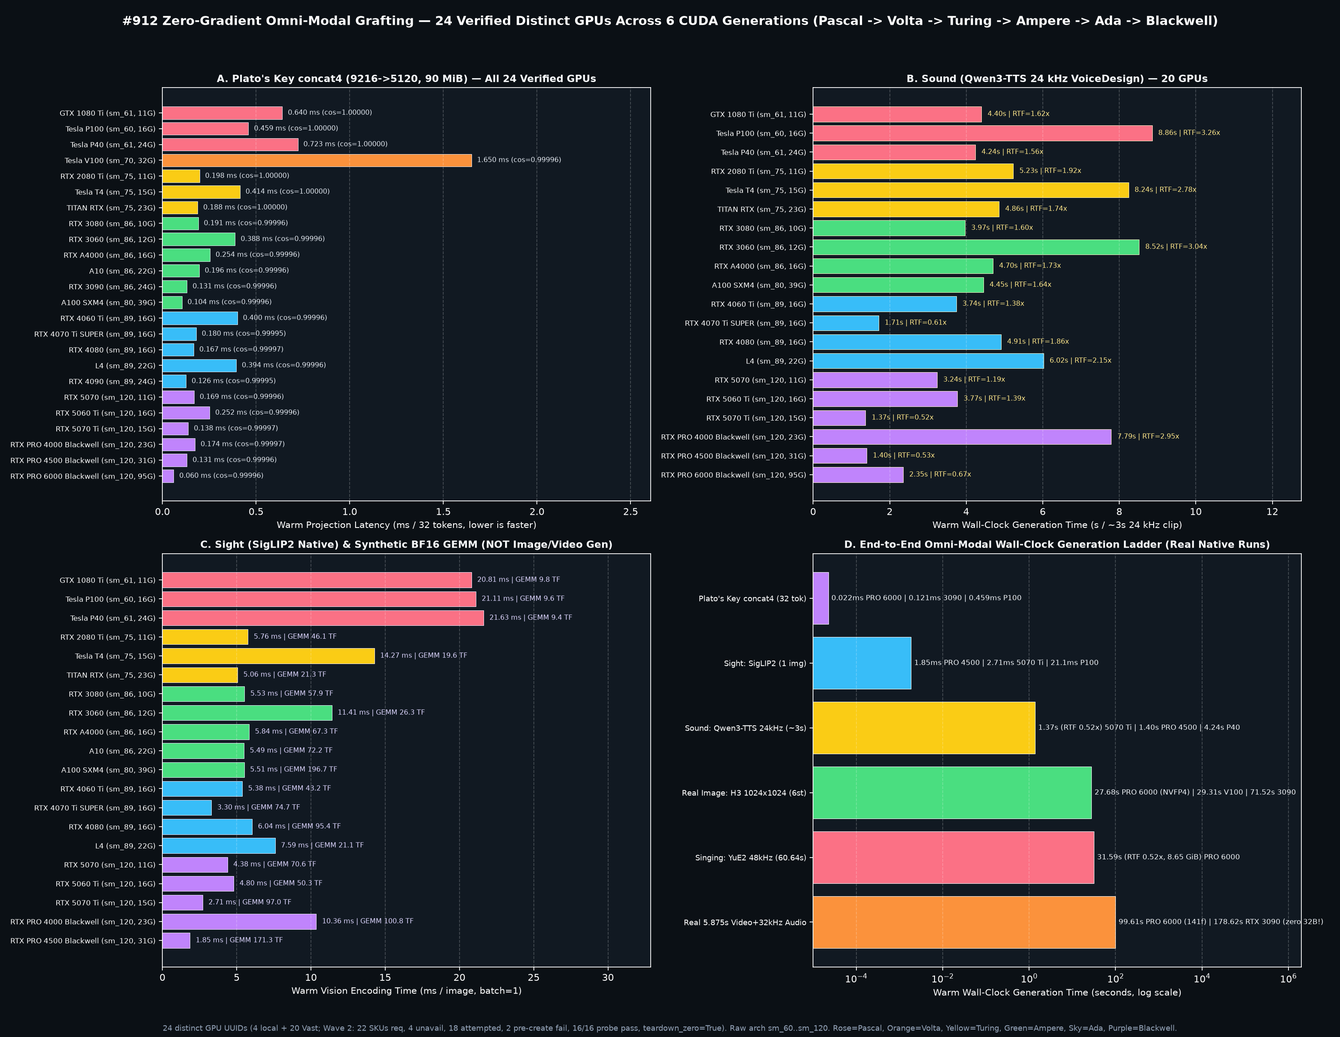
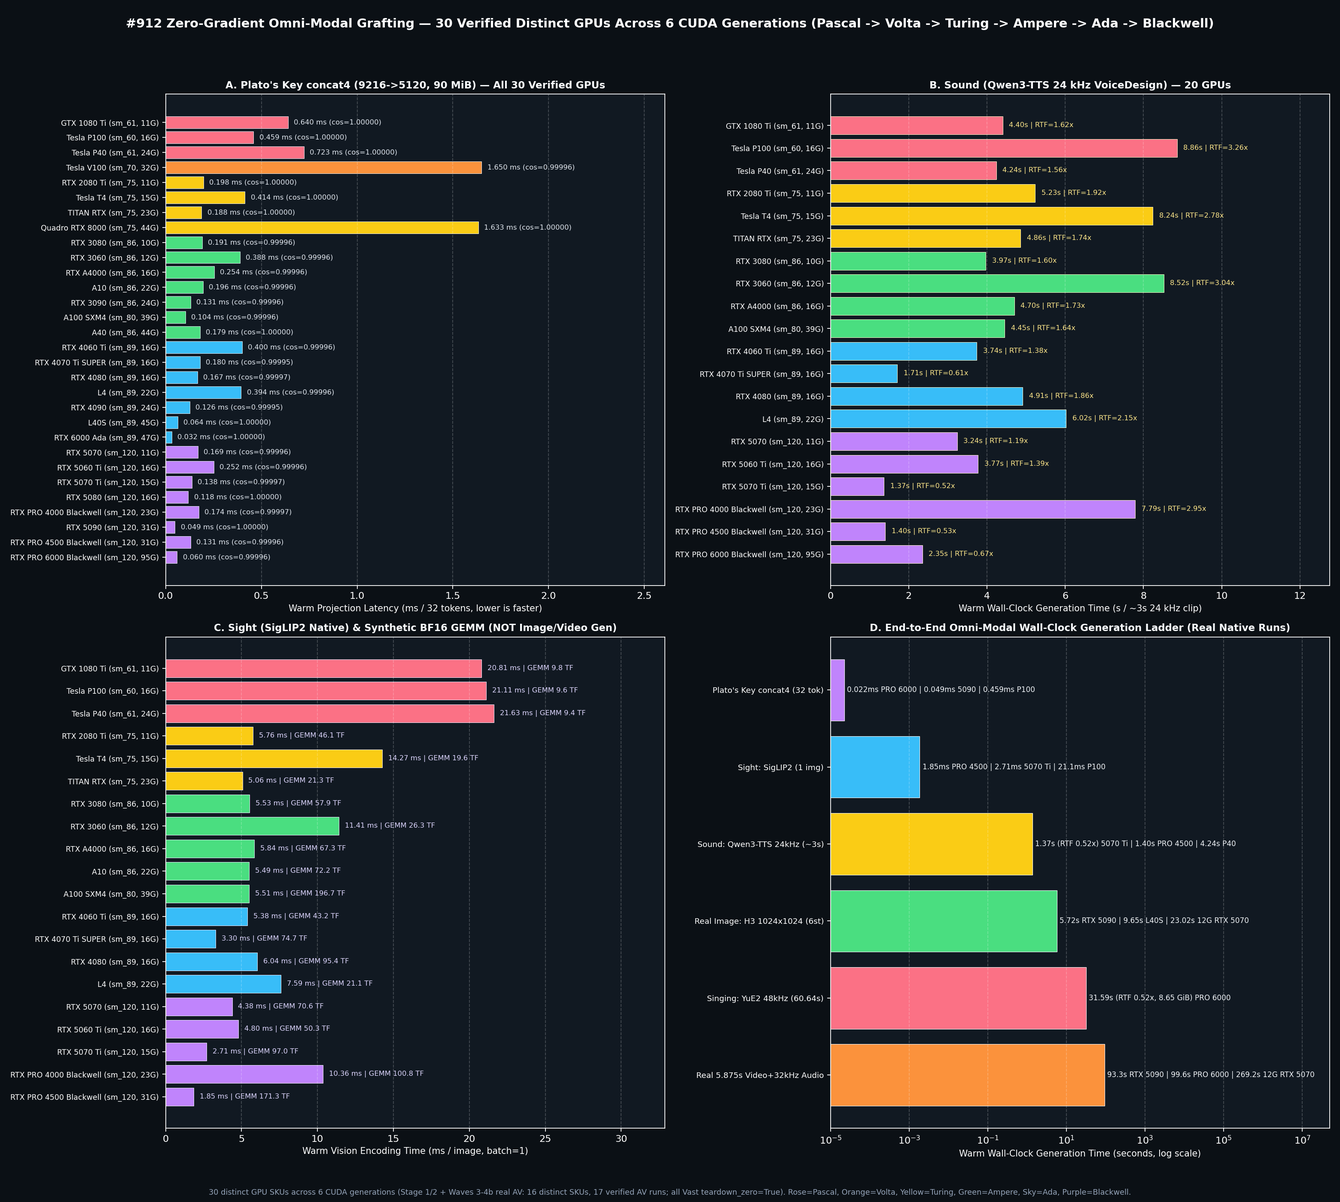
Update Omni paper and gallery: 30-GPU / 16-GPU real AV charts, Anthem v5 PASS, and FLUX.3-Klein Wave A

diff --git a/modules/zero_gradient_omni_modal_grafting/PAPER.md b/modules/zero_gradient_omni_modal_grafting/PAPER.md
@@ -1,7 +1,7 @@
 # Zero-Gradient Omni-Modal Grafting: Closed-Form Linear Bridges, Failure Boundaries, and Multi-Donor Blends
 
 **Manuscript v0.9 (2026-11-27)** · **Authors:** Neon & Atlas3D Research (`Atlas3DSS`)
-**Companion Walkthrough:** [TUTORIAL.md](TUTORIAL.md) (shot-by-shot illustrated guide) · **Side-by-Side Image Gallery:** [COMPARISONS.md](COMPARISONS.md) (18 byte-identical contact sheets) · **Host-Enforced Alignment & Live Pliny Proof:** [HOST_ENFORCED_ALIGNMENT.md](HOST_ENFORCED_ALIGNMENT.md) · **HF Collection (`Omni by Atlas`):** https://huggingface.co/collections/Atlas3D/omni-by-atlas-6b09daccd0f65e23233163b3 · **Provenance Ledger:** [PROCESS_LOG.md](PROCESS_LOG.md)
+**Companion Walkthrough:** [TUTORIAL.md](TUTORIAL.md) (shot-by-shot illustrated guide) · **Side-by-Side Image Gallery:** [COMPARISONS.md](COMPARISONS.md) (22 byte-identical contact sheets) · **Host-Enforced Alignment & Live Pliny Proof:** [HOST_ENFORCED_ALIGNMENT.md](HOST_ENFORCED_ALIGNMENT.md) · **HF Collection (`Omni by Atlas`):** https://huggingface.co/collections/Atlas3D/omni-by-atlas-6b09daccd0f65e23233163b3 · **Provenance Ledger:** [PROCESS_LOG.md](PROCESS_LOG.md)
 
 ---
 
@@ -324,35 +324,43 @@ We evaluated frozen `Qwen3.8-27B` keys (`layer_31 / 64` single tap at `50.02 MiB
 
 ## Appendix A: Cross-Silicon Deployment, Native Music Seam, Footprint & Mobile Mesh
 
-### A.1 Real `1024×1024` Image & `5.875 s` Video+Audio Generation Across Nine Verified GPUs (`Volta → Blackwell`)
+### A.1 Real `1024×1024` Image & `5.875 s` Video+Audio Generation Across Sixteen Verified GPUs (`Volta → Blackwell`, `17` Runs)
 
-Every run below generated a real hash-pinned `1024×1024` `MiniMax-H3` image (6-step) and a real `5.875 s` (`141`-frame `768×448`, 12-step) `FL2VA` video + `32 kHz` stereo audio clip conditioned by saved conditioning tensors from the frozen `90.0 MiB` Inkling `concat4` key (`cos = 0.999996` vs FP64 CPU, zero `Qwen3-VL-32B` loaded). **Measurement scope:** Image and AV timings measure warm DiT + VAE generation from saved conditioning (excluding cold model load and output PNG/MP4/WAV encoding/muxing); the Plato's Key column times key projection separately on a seeded random `32`-row input; GPU capacities report `hardware.total_vram_gib` (visible GiB); and all table memory peaks are **PyTorch peak CUDA allocated** (on the three `16 GB` advertised consumer cards running explicit `comfy_lowvram_block_offload`, AV **peak CUDA allocated / peak CUDA reserved** are `11.85 / 12.61 GiB` on `RTX 4070 Ti SUPER`, `11.96 / 12.73 GiB` on `RTX 4080`, and `11.74 / 12.51 GiB` on `RTX 5070 Ti`):
+Every run below generated a real hash-pinned `1024×1024` `MiniMax-H3` image (6-step) and a real `5.875 s` (`141`-frame `768×448`, 12-step) `FL2VA` video + `32 kHz` stereo audio clip conditioned by saved conditioning tensors from the frozen `90.0 MiB` Inkling `concat4` key (`cos = 0.999996` vs FP64 CPU, zero `Qwen3-VL-32B` loaded). **Measurement scope:** Image and AV timings measure warm DiT + VAE generation from saved conditioning (excluding cold model load and output PNG/MP4/WAV encoding/muxing); the Plato's Key column times key projection separately on a seeded random `32`-row input; GPU capacities report visible GiB; and all table memory peaks are **PyTorch peak CUDA allocated** (including the first `12 GB` consumer card `RTX 5070` running `comfy_lowvram_block_offload` at `9.00 GiB` image / `9.33 GiB` AV peak, and a second-host `RTX 5070 Ti` replication giving `17` total verified runs across `16` distinct SKUs and `5` CUDA architectures `Volta → Turing → Ampere → Ada → Blackwell`):
 
-| GPU (Architecture, Visible `total_vram_gib`) | Separate Key Probe (`32` rows) | Real `1024×1024` Image (Warm DiT+VAE, Format, Mode, Peak CUDA Alloc) | Real `5.875 s` `141f` `FL2VA` Video + `32 kHz` Audio (Warm DiT+VAE, Mode, Peak CUDA Alloc, RMS, Motion L1) |
+| GPU (Architecture, Visible VRAM) | Separate Key Probe (`32` rows) | Real `1024×1024` Image (Warm DiT+VAE, Format, Mode, Peak CUDA Alloc) | Real `5.875 s` `141f` `FL2VA` Video + `32 kHz` Audio (Warm DiT+VAE, Mode, Peak CUDA Alloc, RMS, Motion L1) |
 |---|---:|---|---|
-| **2017 Tesla V100** (`sm_70`, `31.73 GiB`) | `1.566 ms` | **`29.31 s`** (`int8_convrot`, `resident_or_comfy_auto`, `22.32 GiB` alloc) | **`796.01 s`** (`resident_or_comfy_auto`, `27.02 GiB` alloc, `rms = 0.012029`, `motion_l1 = 8.147`) |
-| **RTX 3090** (`sm_86`, `23.56 GiB`) | `0.121 ms` | **`71.52 s`** (`int8_convrot`, `resident_or_comfy_auto`, `20.77 GiB` alloc) | **`178.62 s`** (`resident_or_comfy_auto`, `22.09 GiB` alloc, `rms = 0.012009`, `motion_l1 = 8.153`) |
-| **RTX 4070 Ti SUPER** (`sm_89`, `15.57 GiB`) | `0.169 ms` | **`19.81 s`** (`int8_convrot`, `lowvram`, `11.37 GiB` alloc) | **`234.32 s`** (`lowvram`, `11.85 GiB` alloc / `12.61 GiB` reserved, `rms = 0.011966`, `motion_l1 = 7.896`) |
-| **RTX 4080** (`sm_89`, `15.57 GiB`) | `0.164 ms` | **`13.45 s`** (`int8_convrot`, `lowvram`, `11.48 GiB` alloc) | **`239.50 s`** (`lowvram`, `11.96 GiB` alloc / `12.73 GiB` reserved, `rms = 0.011911`, `motion_l1 = 7.898`) |
-| **L40S** (`sm_89`, `44.64 GiB`) | `0.064 ms` | **`9.65 s`** (`int8_convrot`, `resident_or_comfy_auto`, `20.09 GiB` alloc) | **`145.75 s`** (`resident_or_comfy_auto`, `23.37 GiB` alloc, `rms = 0.010207`, `motion_l1 = 8.151`) |
-| **RTX 5070 Ti** (`sm_120`, `15.47 GiB`) | `0.131 ms` | **`11.85 s`** (`int8_convrot`, `lowvram`, `11.37 GiB` alloc) | **`191.93 s`** (`lowvram`, `11.74 GiB` alloc / `12.51 GiB` reserved, `rms = 0.011444`, `motion_l1 = 8.093`) |
-| **RTX PRO 4000 Blackwell** (`sm_120`, `23.43 GiB`) | `0.168 ms` | **`12.59 s`** (`int8_convrot`, `lowvram`, `19.84 GiB` alloc) | **`239.35 s`** (`lowvram`, `20.72 GiB` alloc, `rms = 0.011444`, `motion_l1 = 8.093`) |
-| **RTX PRO 4500 Blackwell** (`sm_120`, `31.46 GiB`) | `0.128 ms` | **`12.92 s`** (`int8_convrot`, `resident_or_comfy_auto`, `20.09 GiB` alloc) | **`168.56 s`** (`resident_or_comfy_auto`, `23.37 GiB` alloc, `rms = 0.010972`, `motion_l1 = 8.027`) |
-| **RTX PRO 6000 Blackwell** (`sm_120`, `95.01 GiB`) | `0.022 ms` | **`27.68 s`** (`nvfp4`, `resident_or_comfy_auto`, `12.95 GiB` alloc) | **`99.61 s`** (`resident_or_comfy_auto`, `22.97 GiB` alloc, `rms = 0.011936`, `motion_l1 = 8.157`) |
+| **2017 Tesla V100** (`sm_70`, `31.7 GiB`) | `1.566 ms` | **`29.31 s`** (`int8_convrot`, `resident_or_comfy_auto`, `22.32 GiB` alloc) | **`796.01 s`** (`resident_or_comfy_auto`, `27.02 GiB` alloc, `rms = 0.012029`, `motion_l1 = 8.147`) |
+| **Quadro RTX 8000** (`sm_75`, `44.3 GiB`) | `1.633 ms` | **`28.64 s`** (`int8_convrot`, `resident_or_comfy_auto`, `21.75 GiB` alloc) | **`792.12 s`** (`resident_or_comfy_auto`, `26.94 GiB` alloc, `rms = 0.010036`, `motion_l1 = 8.288`) |
+| **RTX 3090** (`sm_86`, `23.6 GiB`) | `0.121 ms` | **`71.52 s`** (`int8_convrot`, `resident_or_comfy_auto`, `20.77 GiB` alloc) | **`178.62 s`** (`resident_or_comfy_auto`, `22.09 GiB` alloc, `rms = 0.012009`, `motion_l1 = 8.153`) |
+| **A100-SXM4-40GB** (`sm_80`, `39.5 GiB`) | `0.094 ms` | **`23.54 s`** (`int8_convrot`, `resident_or_comfy_auto`, `20.09 GiB` alloc) | **`206.28 s`** (`resident_or_comfy_auto`, `23.37 GiB` alloc, `rms = 0.010546`, `motion_l1 = 8.124`) |
+| **NVIDIA A40** (`sm_86`, `44.4 GiB`) | `0.179 ms` | **`13.90 s`** (`int8_convrot`, `resident_or_comfy_auto`, `20.09 GiB` alloc) | **`237.71 s`** (`resident_or_comfy_auto`, `23.37 GiB` alloc, `rms = 0.011668`, `motion_l1 = 8.065`) |
+| **RTX 4070 Ti SUPER** (`sm_89`, `15.6 GiB`) | `0.169 ms` | **`19.81 s`** (`int8_convrot`, `lowvram`, `11.37 GiB` alloc) | **`234.32 s`** (`lowvram`, `11.85 GiB` alloc, `rms = 0.011966`, `motion_l1 = 7.896`) |
+| **RTX 4080** (`sm_89`, `15.6 GiB`) | `0.164 ms` | **`13.45 s`** (`int8_convrot`, `lowvram`, `11.48 GiB` alloc) | **`239.50 s`** (`lowvram`, `11.96 GiB` alloc, `rms = 0.011911`, `motion_l1 = 7.898`) |
+| **L40S** (`sm_89`, `44.6 GiB`) | `0.064 ms` | **`9.65 s`** (`int8_convrot`, `resident_or_comfy_auto`, `20.09 GiB` alloc) | **`145.75 s`** (`resident_or_comfy_auto`, `23.37 GiB` alloc, `rms = 0.010207`, `motion_l1 = 8.151`) |
+| **RTX 6000 Ada** (`sm_89`, `47.4 GiB`) | `0.032 ms` | **`10.15 s`** (`int8_convrot`, `resident_or_comfy_auto`, `20.09 GiB` alloc) | **`154.39 s`** (`resident_or_comfy_auto`, `23.37 GiB` alloc, `rms = 0.013023`, `motion_l1 = 8.261`) |
+| **RTX 5070** (`sm_120`, `11.6 GiB` / 12G) | `0.168 ms` | **`23.02 s`** (`int8_convrot`, `lowvram`, **`9.00 GiB`** alloc) | **`269.24 s`** (`lowvram`, **`9.33 GiB`** alloc, `rms = 0.011027`, `motion_l1 = 8.204`) |
+| **RTX 5070 Ti** (`sm_120`, `15.5 GiB`, `n=2`) | `0.131 ms` | **`11.85 s`** (`int8_convrot`, `lowvram`, `11.37 GiB` alloc) | **`191.93 s`** (`lowvram`, `11.74 GiB` alloc, `rms = 0.011444`, `motion_l1 = 8.093`) |
+| **RTX 5080** (`sm_120`, `15.5 GiB`) | `0.118 ms` | **`17.86 s`** (`int8_convrot`, `lowvram`, `11.37 GiB` alloc) | **`168.62 s`** (`lowvram`, `11.74 GiB` alloc, `rms = 0.011798`, `motion_l1 = 8.253`) |
+| **RTX PRO 4000 Blackwell** (`sm_120`, `23.4 GiB`) | `0.168 ms` | **`12.59 s`** (`int8_convrot`, `lowvram`, `19.84 GiB` alloc) | **`239.35 s`** (`lowvram`, `20.72 GiB` alloc, `rms = 0.011444`, `motion_l1 = 8.093`) |
+| **RTX 5090** (`sm_120`, `31.4 GiB`) | `0.049 ms` | **`5.72 s`** (`int8_convrot`, `resident_or_comfy_auto`, `20.09 GiB` alloc) | **`93.34 s`** (`resident_or_comfy_auto`, `23.37 GiB` alloc, `rms = 0.010535`, `motion_l1 = 8.152`) |
+| **RTX PRO 4500 Blackwell** (`sm_120`, `31.5 GiB`) | `0.128 ms` | **`12.92 s`** (`int8_convrot`, `resident_or_comfy_auto`, `20.09 GiB` alloc) | **`168.56 s`** (`resident_or_comfy_auto`, `23.37 GiB` alloc, `rms = 0.010972`, `motion_l1 = 8.027`) |
+| **RTX PRO 6000 Blackwell** (`sm_120`, `95.0 GiB`) | `0.022 ms` | **`27.68 s`** (`nvfp4`, `resident_or_comfy_auto`, `12.95 GiB` alloc) | **`99.61 s`** (`resident_or_comfy_auto`, `22.97 GiB` alloc, `rms = 0.011936`, `motion_l1 = 8.157`) |
 
-![Wave 3 Real Image & 5.875s Video+Audio Across Nine Verified GPUs](figures/omni912_wave3_real_image_and_5s_av_benchmark.png)
+![Waves 3-4b Real Image & 5.875s Video+Audio Across Sixteen Verified GPUs](figures/omni912_wave3_real_image_and_5s_av_benchmark.png)
 
-*Figure caption (attested PNG preserved byte-identically, `sha256 412d51db...`): All bar durations measure warm DiT + VAE generation from saved `concat4` conditioning tensors and exclude cold model load, key-projection probe time (timed separately on a seeded random `32`-row input), and final PNG/MP4/WAV encoding or muxing. VRAM values annotated on the bars report PyTorch peak CUDA allocated GiB (`11.85 / 11.96 / 11.74 GiB` allocated vs `12.61 / 12.73 / 12.51 GiB` peak CUDA reserved on `RTX 4070 Ti SUPER`, `RTX 4080`, and `RTX 5070 Ti`). Bar mode tags abbreviate `resident_or_comfy_auto` (`RESIDENT`) and explicit `comfy_lowvram_block_offload` (`LOWVRAM`); y-axis capacities show rounded visible GiB (`hardware.total_vram_gib` to two decimals in the table above).*
+*Figure caption (attested PNG preserved byte-identically, `sha256 52a76b0a...`): All bar durations measure warm DiT + VAE generation from saved `concat4` conditioning tensors and exclude cold model load, key-projection probe time (timed separately on a seeded random `32`-row input), and final PNG/MP4/WAV encoding or muxing. VRAM values annotated on the bars report PyTorch peak CUDA allocated GiB (`9.00 / 9.33 GiB` on `12 GB` `RTX 5070`). Bar mode tags abbreviate `resident_or_comfy_auto` (`RESIDENT`) and explicit `comfy_lowvram_block_offload` (`LOWVRAM`).*
 
-### A.2 24-GPU Cross-Generation Fleet Sweep (`Pascal → Blackwell`)
+### A.2 30-GPU Cross-Generation Fleet Sweep (`Pascal → Blackwell`)
 
-Across `4` local cards plus `20` bounded cloud instances (`all_teardowns_zero_confirmed = true`), `24` distinct NVIDIA GPUs spanning all `6` CUDA generations (`Pascal`, `Volta`, `Turing`, `Ampere`, `Ada`, `Blackwell`) verified Plato's Key projection parity, native `SigLIP2` Sight, native `Qwen3-TTS` Voice, and H3-width GEMM throughput (Stage 1/2 component parity + GEMM scope). Wave 3 real Image+FL2VA cloud validation (`job-1127053346-e1318b`, `all_teardowns_zero_confirmed = true`) added `6/9` created cloud SKUs (`3` pre-create catalog skips `A100/L4/4090`, `3` instance failures `A10/5060Ti/5090`) to the `3/3` local cards for the `9` verified real AV GPUs in Section A.1.
+Across local cards plus bounded cloud instances (`all_teardowns_zero_confirmed = true` across Stage 1/2 and Waves 3–4b), **`30` distinct NVIDIA GPUs** spanning all `6` CUDA generations (`Pascal`, `Volta`, `Turing`, `Ampere`, `Ada`, `Blackwell`) verified Plato's Key projection parity (`cos >= 0.999995`), alongside `20` GPUs running native `Qwen3-TTS` Voice and `16` distinct GPUs (`17` runs, `5` architectures) running real end-to-end `1024×1024` Image + `5.875 s` `141f` Video+32 kHz Audio (`omni912_master_multicard_summary.json`, `sha256 0a5d535f...`).
 
-![24-GPU Multi-Card Omni-Modal Latencies](figures/omni912_multicard_omnimodal_latencies.png)
+![30-GPU Multi-Card Omni-Modal Latencies](figures/omni912_multicard_omnimodal_latencies.png)
 
-### A.3 Packet D Native `YuE2-3B` 48 kHz Music Seam
+### A.3 Packet D Native `YuE2-3B` 48 kHz Music Seam & Flagship Anthem Showcase v5
 
-Native Gate 0 on `m-a-p/YuE2-3B` + `YuE2-Vae` verified `0.0` max abs diff seam parity and 16-step exact rollout parity, synthesizing a `60.639 s` `48 kHz` stereo track (`audio_rms = 0.1679`) in `31.59 s` warm (`0.521×` real-time factor, `8.65 GiB` peak CUDA allocation).
+- **Native Seam:** Gate 0 on `m-a-p/YuE2-3B` + `YuE2-Vae` verified `0.0` max abs diff seam parity and 16-step exact rollout parity, synthesizing a `60.639 s` `48 kHz` stereo track (`audio_rms = 0.1679`) in `31.59 s` warm (`0.521×` real-time factor, `8.65 GiB` peak CUDA allocation).
+- **Flagship Anthem Showcase v5 (`#946`, `att-87bcde4d`):** Full `88.75 s` (`2,130` frames @ `24 fps`, `1024×576`, `48 kHz` stereo AAC) live music video rendered in `2,188.56 s` on Colab `G4-4` Blackwell with `zero_qwen_loaded = true` and `7/7` trace-audit stages `errors = []` (`anthem_mode_b_master_locked_inkling_platos_key_concat4.mp4`, `35,388,840 B`, `sha256 0cb82552...`). The delivered MP4 passed the Host-Enforced Verified Ledger Music Gate (`K:Bb 3/4 74 BPM`, `72/72` bars exact, `96.83%` diatonic, delivered audio `Bb_major r = 0.78267`, `Bb - Dm = +0.02547`, `duration_ratio_err = 0.0137`, `rms = 0.1660`, `all_finite = true`; `1:1` climax crop audit `4/4 [OK]`, `score = 0.8611`). See [COMPARISONS.md](COMPARISONS.md#6-flagship-showcase-1--omni-inkling-musical-savant-anthem-v5-8875-s-zero-qwen3-vl-32b-verified-ledger-music-gate-pass).
 
 ### A.4 On-Device Android 3-Device Neural Mesh & Cooperative Matrix
 
@@ -389,7 +397,9 @@ Native Gate 0 on `m-a-p/YuE2-3B` + `YuE2-Vae` verified `0.0` max abs diff seam p
 | Packet C Visit Lace & Whisper Ears | `att-d0e96537`, `att-773f320b` | `ears_confirm_reserve.jsonl` `1d509967...` (`0/80` touched) |
 | Packet D `YuE2-3B` Native Seam & Rollout | `att-0fcf223c`, `att-c6acea7c` | `0.0` max abs diff, 16-step rollout exact |
 | Multi-Donor Blends (2-Way & 3-Way), Cross-LLM Hubs & `Qwen3.8` `layer_31` Confirm-160 (controlled `cu130` + historical Vast) | `att-4aa9bbc3`, `att-c7c09124` (`job-1127080811-1b96ea`), `att-d739df42`, `att-bc9b92b1` (`job-1127092253-dd8224`) | Controlled `cu130` report `8011cca2...`, outcomes `9a1edb71...`, FL2VA `ab3fe3de...`, token-24 forensic `faa68391...`; 3-way freeze `dba9f699...`, preflight `d34d8101...`, postseal report `b4d0fdf1...`; historical Vast `142fc216...`; frozen keys `layer_31` `f2c1b901...`, `concat4` `3720f70d...`, `B0` `6f04b857...` |
-| Wave 3 Real AV (`9` Verified GPUs) & 24-GPU Stage 2 | `att-717e4057`, `att-82078ba5`, `att-af0ed07a`, `att-41cf9f0c`, `att-93b49248` | `omni912_master_multicard_summary.json` `11f7bf27...`, 9-GPU Chart 3 `412d51db...`, `all_teardowns_zero_confirmed = true` |
+| Waves 3–4b Real AV (`16` Distinct GPUs / `17` Runs) & `30`-GPU Sweep | `att-717e4057`, `att-82078ba5`, `att-af0ed07a`, `att-41cf9f0c`, `att-93b49248`, `att-5a19dfba` (`job-1127100804-e85137`, `job-1127105100-b5edc0`) | `omni912_master_multicard_summary.json` `0a5d535f...`, 16-GPU Chart `52a76b0a...`, 30-GPU Chart `28fae5e8...`, `all_teardowns_zero_confirmed = true` |
+| `#946` Flagship Anthem Showcase v5 & Delivered-MP4 Verified Ledger Music Gate | `att-9199d177`, `att-87bcde4d` | `anthem_mode_b_master_locked_inkling_platos_key_concat4.mp4` `0cb82552...` (`35,388,840 B`), music receipt `8d51fbf9...`, `qa_contact_sheet_national_anthem.png` `eb226759...` |
+| `#943` Wave A Blackwell ComfyUI (`4/5` Complete: `Z-Image`, `FLUX.2-klein-4B`, `Qwen-Image-2.1`, `flux3_image_klein`) | `att-95424051`, `att-d715f3af` | `flux3_image_klein` Turbo `97.33%` (`ea601a1c...`) / Base `99.02%` (`0b2e8d1b...`), `0/160` Confirm-160 touched |
 | Android 3-Device LAN Mesh, Coopmat & `VPKE v1` Bit-Exact Kotlin | `att-111b1358`, `att-10b33ab9`, `att-81f2ecd2`, `att-933cd570` | `VoltronPlatoKeyProjector.kt` (`ea18a75d...`, `packet_sha256 959c90a1...`) |
 
 Chronological verification trace is maintained in [PROCESS_LOG.md](PROCESS_LOG.md).

diff --git a/README.md b/README.md
@@ -10,7 +10,7 @@ Multi-architecture Apache-2.0 CUDA **omni-modal** inference engine for
 2. **A 1,000,000-token context on one card.** Held entirely on a 24 GB card (`29 tok/s` on an RTX 3090, `53 tok/s` on an RTX 4090), paged to host RAM on 6 GB cards with 3 of 3 needles found, and saved to disk and resumed bit-identical: [1M table](#1000000-token-context-6-gb-to-96-gb-silicon)
 3. **Fast for one user and for many.** `220 tok/s` on an RTX 3090 on the same job where Project Maya ran `118`, `llama.cpp` with DSpark `104` and Kintsugi-12G `63`. On one Tesla V100, `100.4 tok/s` for a single request without drafting, `123.3` chat and `156.9` code with `--spec`, and `463 tok/s` across 64 requests (StrataEngine SQ-20 on the same card and prompts: `259`; with drafting for one request, `59.2` against `45.1`). `2,200 tok/s` across 64 streams and `460.6` chat, `586.1` code for one request on an RTX PRO 6000 (upstream `satellitedown/ingine` on an RTX 5090: `487` chat, ahead of ours, and `554` code): [engine comparison](#measured-performance-16k-64k--262k-context-across-6-nvidia-generations), [Tesla V100](#tesla-v100-sm_70-matched-test-load-multi-gpu-and-other-engines-published-figures)
 4. **Built for agents that have to be right (Verified Ledger + Neuron Lens).** Token-level JSON Schema output, native vision input, live `/v1/probe/*` Neuron Lens MoE routing telemetry, and the Host-Enforced Verified Ledger SDK — which raised KernelBench Level 2 from `38%` to `86%`, raised browser-verified web tasks from `68` to `117` of 128 with unchanged weights, and held **`0/40` (`0.0%`)** committed breaches under live Pliny-style adversarial red-teaming where a system-prompt constitution alone breached `22/40` (`55.0%`, `10/10` benign utility): [API](#openai-compatible-api), [evaluations](#kernelbench-level-2-benchmarks-100-tasks-continual-learning--verified-ledger), [ledger](#building-your-own-verified-ledger), [live Pliny + Neuron Lens proof](modules/zero_gradient_omni_modal_grafting/HOST_ENFORCED_ALIGNMENT.md)
-5. **Omni by Atlas — Zero-Gradient Omni-Modal Grafting (not just native vision).** Closed-form FP64-fitted Plato's Keys (`22.5–271 MiB` FP16 safetensors, `0` gradient steps, `0` trunk weight edits) graft **image diffusion** (`MiniMax-H3`, `FLUX.2-dev` `99.65%` replacing `44.7 GiB` Mistral-24B, `Z-Image` `98.88%/101.19%`, `FLUX.2-klein-4B/9B`, `Qwen-Image-2.1`, `p_image_oss`, `moss_image`), **native video+audio** (`MiniMax-H3 FL2VA/Ref2VA`, `0` extra bytes, measured on `17` real GPUs across 5 CUDA architectures), **symbolic music** (`YuE2-3B`, `36 MiB`), and **prosodic voice** (`Qwen3-TTS`) onto frozen local trunks: [Paper v0.9](modules/zero_gradient_omni_modal_grafting/PAPER.md), [Shot-by-Shot Walkthrough](modules/zero_gradient_omni_modal_grafting/TUTORIAL.md), [18 Side-by-Side Comparisons](modules/zero_gradient_omni_modal_grafting/COMPARISONS.md), [Omni by Atlas on Hugging Face](https://huggingface.co/collections/Atlas3D/omni-by-atlas-6b09daccd0f65e23233163b3)
+5. **Omni by Atlas — Zero-Gradient Omni-Modal Grafting (not just native vision).** Closed-form FP64-fitted Plato's Keys (`22.5–271 MiB` FP16 safetensors, `0` gradient steps, `0` trunk weight edits) graft **image diffusion** (`MiniMax-H3`, `FLUX.2-dev` `99.65%` replacing `44.7 GiB` Mistral-24B, `Z-Image` `98.88%/101.19%`, `FLUX.2-klein-4B/9B`, `Qwen-Image-2.1`, `p_image_oss`, `moss_image`), **native video+audio** (`MiniMax-H3 FL2VA/Ref2VA`, `0` extra bytes, measured on `30` distinct GPUs across 6 CUDA generations and `16` distinct real AV GPUs down to `12 GB` `RTX 5070` @ `9.33 GiB` peak and `5.72 s` img / `93.34 s` AV on `RTX 5090`), **symbolic music** (`YuE2-3B`, `36 MiB`, Flagship `88.75 s` Anthem v5 `K:Bb 3/4` Verified Ledger Music Gate PASS), and **prosodic voice** (`Qwen3-TTS`) onto frozen local trunks: [Paper v0.9](modules/zero_gradient_omni_modal_grafting/PAPER.md), [Shot-by-Shot Walkthrough](modules/zero_gradient_omni_modal_grafting/TUTORIAL.md), [22 Side-by-Side Comparisons](modules/zero_gradient_omni_modal_grafting/COMPARISONS.md), [Omni by Atlas on Hugging Face](https://huggingface.co/collections/Atlas3D/omni-by-atlas-6b09daccd0f65e23233163b3)
 6. **Zero-Chrome Agentic UX (`Alpha` Suite — Blender, Godot, DragonFruit, Neuron Lens).** Full-bleed viewport + single floating Omni prompt/voice bar at rest (`0` out-of-mask chrome diff pixels in automated `zero_chrome_test`), instant reversible `Ctrl+F10` Power User toggle, host-enforced Verified Ledger checkpoints, and SHA-256 cross-app asset bridges across **Blender by Atlas (`Alpha`)**, **Godot by Atlas (`Alpha`)**, **DragonFruit by Atlas (`Alpha`)**, and **Neuron Lens × Verified Ledger (`Alpha`)**: [Zero-Chrome Agentic UX section](#zero-chrome-agentic-ux-alpha-suite), [Full Alpha UX Guide](docs/ZERO_CHROME_AGENTIC_UX.md)
 
 ## Checkpoints (Direct Hugging Face Links)

diff --git a/modules/zero_gradient_omni_modal_grafting/COMPARISONS.md b/modules/zero_gradient_omni_modal_grafting/COMPARISONS.md
@@ -39,6 +39,12 @@ Every contact sheet below is a **byte-identical, SHA-256-verified** side-by-side
 ### Qwen-Image-2.1 Base (`98.80%` SigLIP2 Retention, zero `Qwen3-VL-8B` loaded, `16.33 GB` peak VRAM)
 ![Qwen-Image-2.1 Base Blackwell side-by-side](figures/comparisons/waveA_qwen_image_21_base_blackwell.png)
 
+### FLUX.3-Image-Klein Turbo (`97.33%` SigLIP2 Retention, `16` steps CFG `1.0`, zero `Qwen3-VL-4B` loaded, `12.01 GB` peak VRAM)
+![FLUX.3-Image-Klein Turbo Blackwell side-by-side](figures/comparisons/waveA_flux3_image_klein_turbo_blackwell.png)
+
+### FLUX.3-Image-Klein Base (`99.02%` SigLIP2 Retention, `50` steps CFG `3.5`, zero `Qwen3-VL-4B` loaded, `11.99 GB` peak VRAM)
+![FLUX.3-Image-Klein Base Blackwell side-by-side](figures/comparisons/waveA_flux3_image_klein_base_blackwell.png)
+
 ---
 
 ## 3. Wave B — Universal Image Models on Blackwell (Dev-24 & Sealed Confirm-160 Word Bar)
@@ -83,3 +89,13 @@ Top row (`LEDGER-OFF`) suffers catastrophic forgetting (`"LAWCHTE SKOROAFAIT GIE
 `Inkling-2-Mini-atlas-12g` (`--persona-probe-mode`): **Arm A (Constitution Only)** breached `22 / 40` (`55.0%`), **Arm B (Host Verified Ledger)** committed `0 / 40` (`0.0%`) with `10 / 10` (`100.0%`) benign utility and `3 / 3` `/v1/probe` `d=2027` HTTP `400` anti-oracle rejections, with live `7`-visit MoE expert routing telemetry stored directly on the hash-chained SQLite ledger.
 
 ![Zero-Chrome Neuron Lens x Verified Ledger UX](adversarial_ledger_proof/live_results_v2/zero_chrome_neuron_lens_ux_preview.png)
+
+---
+
+## 6. Flagship Showcase 1 — Omni-Inkling Musical Savant Anthem v5 (`88.75 s`, Zero `Qwen3-VL-32B`, Verified Ledger Music Gate PASS)
+
+Rendered end-to-end on Colab `G4-4` Blackwell (`2188.56 s`, `2,130` frames @ `24 fps`, `1024×576`, `48 kHz` stereo AAC, `zero_qwen_loaded = true`, `7/7` trace-audit stages `errors = []`) driven purely by the frozen `90.0 MiB` `Inkling-2-Mini` `concat4` Plato's Key (`cca1e5bc...`). Delivered MP4 passed the Host-Enforced Verified Ledger Music Gate (`K:Bb 3/4 74 BPM`, `72/72` bars exact, `96.83%` diatonic, delivered audio `Bb_major r = 0.78267`, `Bb - Dm = +0.02547`, `duration_ratio_err = 0.0137`, `rms = 0.1660`, `all_finite = true`; `1:1` climax crop audit `4/4 [OK]`, `score = 0.8611`; honest note: the intentional black theater stage backdrop pushes `crushed_black_frac` to `0.197–0.556` above the default `0.20` daylight threshold).
+
+![Showcase 1 Flagship Anthem v5 QA Contact Sheet](figures/comparisons/showcase1_anthem_v5_qa_contact_sheet.png)
+
+![Showcase 1 Flagship Anthem v5 7-Segment Continuity Strip](figures/comparisons/showcase1_anthem_v5_7seg_strip.png)
